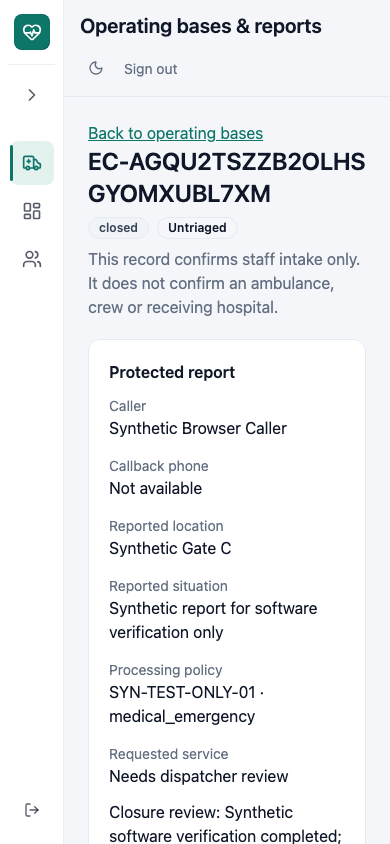
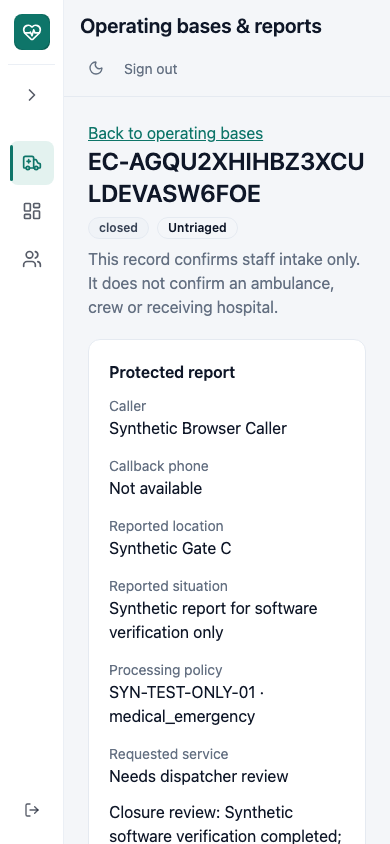
docs(emergency): record production image verification

Changed region(s): [[0.2154, 0.154, 0.9538, 0.2464]]

diff --git a/docs/architecture/evidence/ambulanceconnect-2026-10-18/fleet-verification.md b/docs/architecture/evidence/ambulanceconnect-2026-10-18/fleet-verification.md
@@ -15,7 +15,10 @@ claim live booking, dispatch, crew mobile workflows or hospital acceptance.
   all 29 tasks after the mobile layout correction. Shell 511 tests, API 287,
   shared UI 93, emergency access 9 and native interactions 5 passed.
   A subsequent strict-clock regression adds one API test; its targeted suite
-  passes. Complete release gates must be rerun after rebasing current main.
+  passes. Post-rebase verification at `1e89d3b` passed all 29 tasks, including
+  521 shell and 290 API tests, with pharmacy expiry/storage-address changes intact.
+  The complete backend race/70% gate also passed after that rebase (76.2%
+  emergency coverage).
 - Tagged `TestEmergencyConsoleBrowser`, against a production-built local shell
   and disposable actual backend dependencies, passes all four Chromium scenarios
   concurrently. Fleet: configure → verify two people → start duty → failed
@@ -60,11 +63,28 @@ the user's authenticated browser. Its route is
 under the shared `HmsShell`. Production Kubernetes serves the `helivanta-shell`
 image at `main-ef8adfd…`. The image workflow builds `Dockerfile.shell`; there is
 no separate current `apps/web` package. The emergency worktree initially preceded
-the latest pharmacy expiry/address changes; it must include current main before
-release. No stock data or pharmacy settings were changed during this check.
+the latest pharmacy expiry/address changes; `1e89d3b` includes production base
+`ef8adfd`, and the pharmacy route and components have no changes against that base.
+A subsequent workforce credential release (`6dfa658`, #1231) is being integrated
+separately. No stock data or pharmacy settings were changed during this check.
 
 The real Linux image-build check caught a missing patched-dependency input in
 the Docker context (`/src/patches/node-forge@1.4.0.patch`). The Dockerfile change
 also supplies every added workspace manifest and shared emergency contract JSON.
-Container build and standalone runtime verification remain explicit release
-checks; a local Next build alone is insufficient evidence for them.
+The Linux builder completed locally. CI built, scanned and published both images
+for `1e89d3bc5cba9adcd1febd23ce69c1bbb88b1f94` successfully. The web image was pulled
+through `asia-south1-docker.pkg.dev/tesseracthub-480811/ghcr-remote/` by that full
+commit tag, not directly from GHCR. Its OCI revision matches that exact commit;
+manifest digest `sha256:40f5fbf8107ca13e9206fc04f3963de724f72674c605f83cd062bfd0cef926c1`.
+
+All four browser scenarios then passed against that actual standalone runtime
+on port 4343: UID/GID 10001, read-only filesystem, all capabilities dropped,
+no-new-privileges, 512 MiB memory limit. Backend dependencies and identity remained
+the explicitly synthetic disposable harness; no production API credential was
+used by those tests. This verifies the built web image, not just `next start`.
+
+Application checkpoint: https://github.com/tesserix/helivanta/pull/1233.
+Infrastructure companion: https://github.com/tesserix/tesserix-k8s/pull/1456;
+all its required CI checks passed after chart versions were incremented to
+API 0.1.14 and OpenBao 0.1.65. Both remain unmerged; production API and web were
+observed healthy at 2/2 replicas without applying emergency changes.
